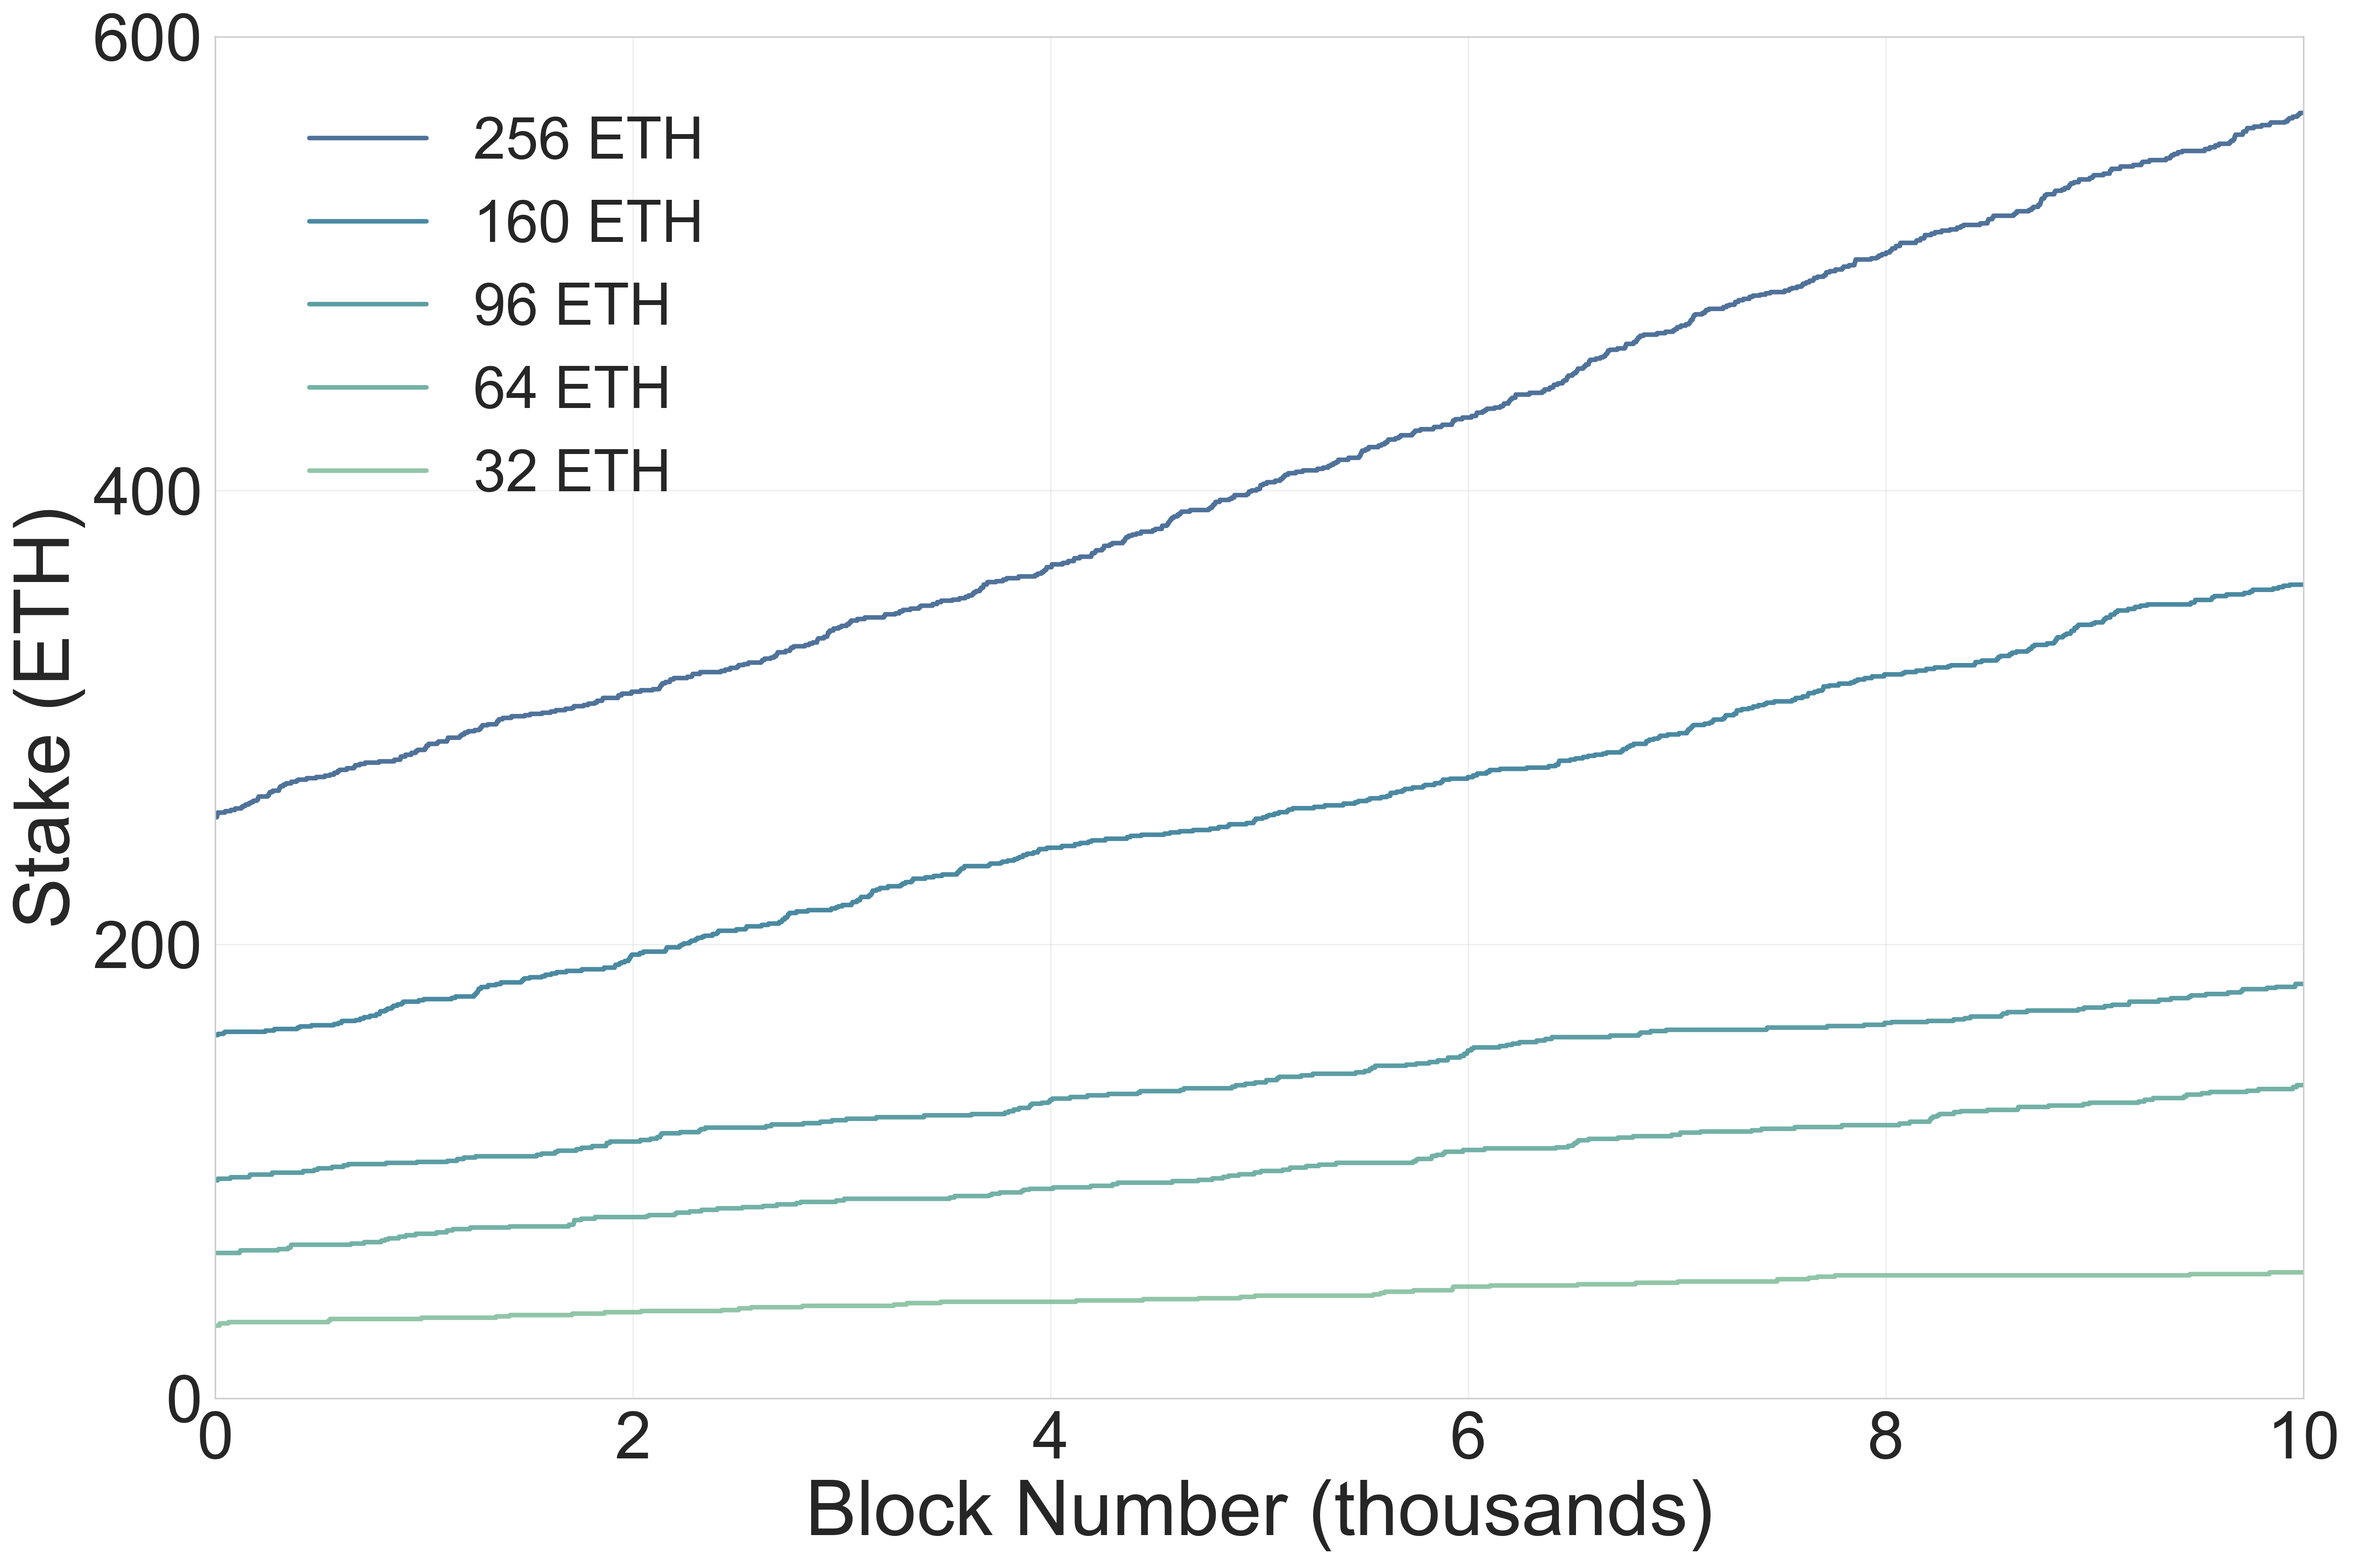
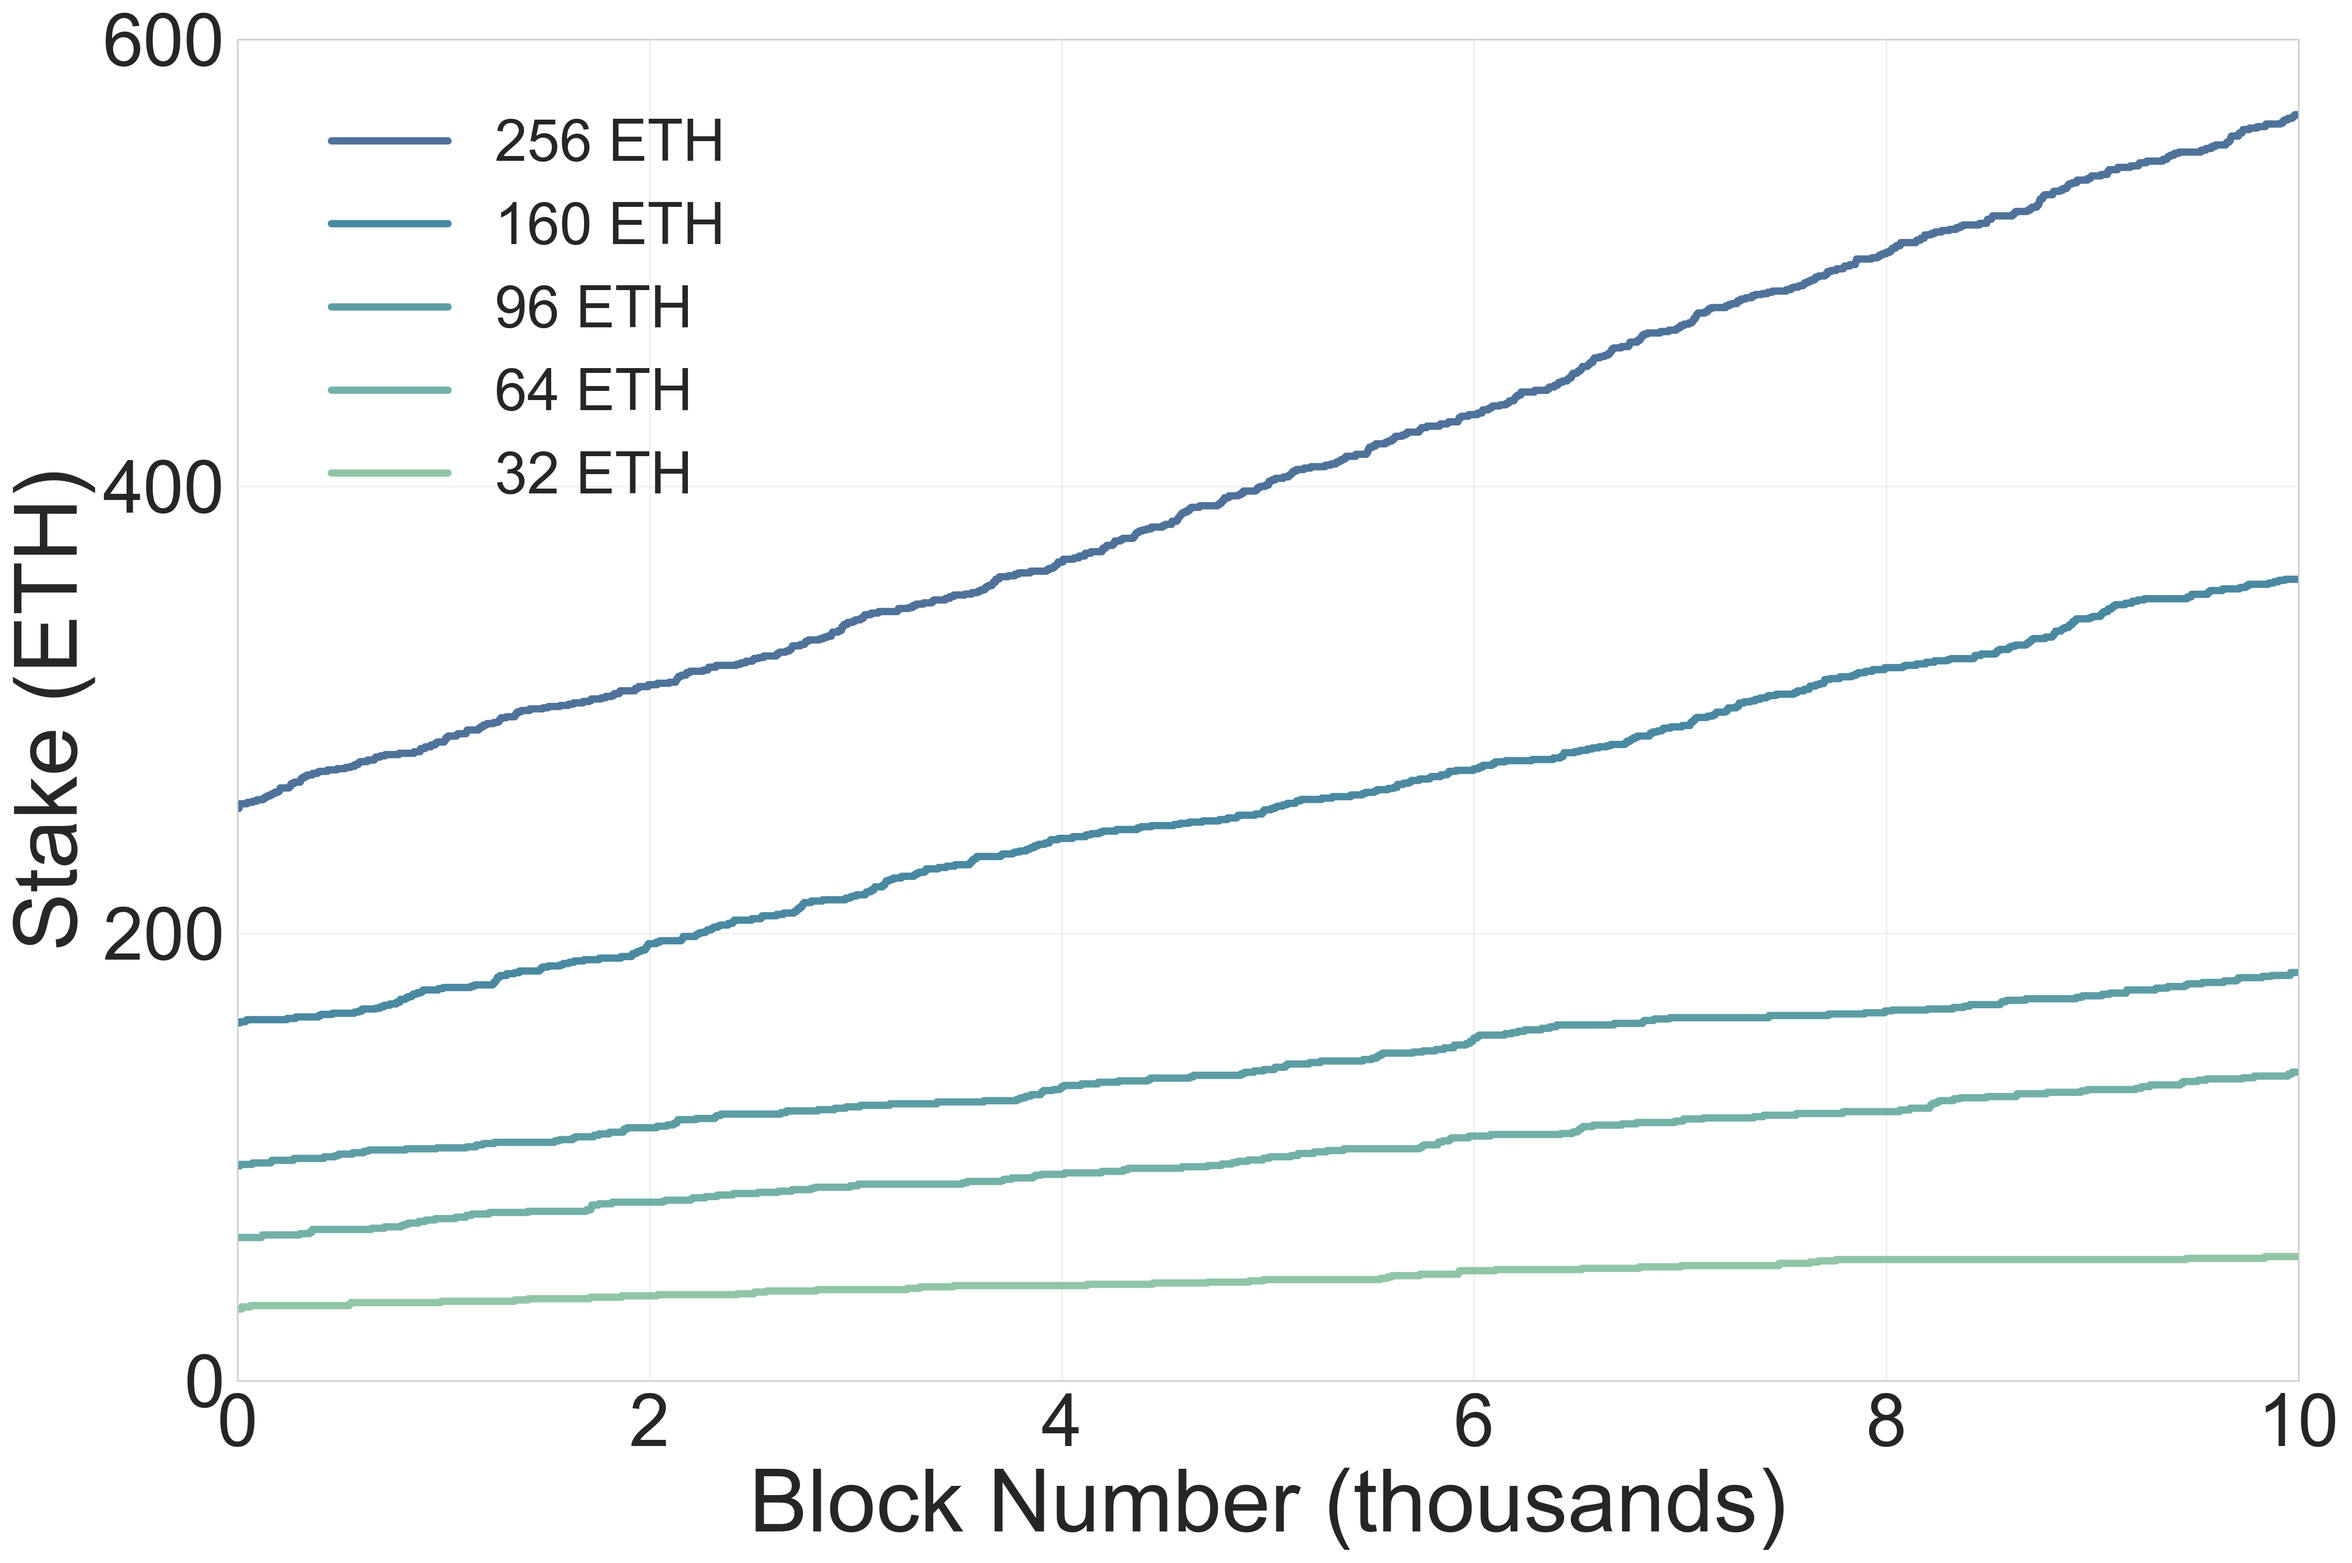
update restaking font

diff --git a/plots/ss/plot_restaking.py b/plots/ss/plot_restaking.py
@@ -101,7 +101,7 @@ def plot_pos_validators():
                     x='block_num', 
                     y=validator_data['validator_capital'] / 1e9,
                     color=color,
-                    linewidth=2.5,
+                    linewidth=4.0,
                     alpha=0.8,
                     label=label)
     
@@ -125,18 +125,18 @@ def plot_pos_validators():
                     x='block_num', 
                     y=validator_data['validator_capital'] / 1e9,
                     color=color,
-                    linewidth=2.5,
+                    linewidth=4.0,
                     alpha=0.8,
                     label=label)
     
     # Customize the plot with much larger fonts
-    plt.xlabel('Block Number (thousands)', fontsize=42)
-    plt.ylabel('Stake (ETH)', fontsize=42)
+    plt.xlabel('Block Number (thousands)', fontsize=48)
+    plt.ylabel('Stake (ETH)', fontsize=48)
     
     # Set x-axis ticks in thousands
     x_ticks = [0, 2000, 4000, 6000, 8000, 10000]
     x_labels = ['0', '2', '4', '6', '8', '10']
-    plt.xticks(x_ticks, x_labels, fontsize=36)
+    plt.xticks(x_ticks, x_labels, fontsize=40)
     
     # Get the actual data range to set appropriate y-axis limits
     # Find the maximum value across all plotted data
@@ -150,9 +150,9 @@ def plot_pos_validators():
     # Set y-axis to stop at 600 ETH for PoS
     y_max = 600
     
-    # Set explicit y-axis ticks with consistent formatting (every 100 ETH)
-    y_ticks = list(range(0, y_max + 1, 100))
-    plt.yticks(y_ticks, fontsize=36)
+    # Set explicit y-axis ticks with consistent formatting (every 200 ETH)
+    y_ticks = list(range(0, y_max + 1, 200))
+    plt.yticks(y_ticks, fontsize=40)
     
     # Set plot to start at (0,0) and end at 10000 blocks
     plt.xlim(left=0, right=10000)
@@ -325,7 +325,7 @@ def plot_pbs_builders():
                         x='block_num', 
                         y=continuous_data['current_capital'] / 1e9,  # Use current_capital for total value
                         color=color,
-                        linewidth=2.5,
+                        linewidth=4.0,
                         alpha=0.8,
                         label=label)
     
@@ -352,25 +352,25 @@ def plot_pbs_builders():
                         x='block_num', 
                         y=continuous_data['current_capital'] / 1e9,  # Use current_capital for total value
                         color=color,
-                        linewidth=2.5,
+                        linewidth=4.0,
                         alpha=0.8,
                         label=label)
     
     # Customize the plot with much larger fonts
-    plt.xlabel('Block Number (thousands)', fontsize=42)
-    plt.ylabel('Stake (ETH)', fontsize=42)
+    plt.xlabel('Block Number (thousands)', fontsize=48)
+    plt.ylabel('Stake (ETH)', fontsize=48)
     
     # Set x-axis ticks in thousands
     x_ticks = [0, 2000, 4000, 6000, 8000, 10000]
     x_labels = ['0', '2', '4', '6', '8', '10']
-    plt.xticks(x_ticks, x_labels, fontsize=36)
+    plt.xticks(x_ticks, x_labels, fontsize=40)
     
     # Set y-axis to stop at 800 ETH for PBS builders with 200 ETH intervals
     y_max = 800
     
     # Set explicit y-axis ticks with consistent formatting (every 200 ETH)
     y_ticks = list(range(0, y_max + 1, 200))
-    plt.yticks(y_ticks, fontsize=36)
+    plt.yticks(y_ticks, fontsize=40)
     
     # Set plot to start at (0,0) and end at 10000 blocks
     plt.xlim(left=0, right=10000)
@@ -507,25 +507,25 @@ def plot_pbs_proposers():
                         x='block_num', 
                         y=continuous_data['current_capital'] / 1e9,  # Use current_capital for total value
                         color=color,
-                        linewidth=2.5,
+                        linewidth=4.0,
                         alpha=0.8,
                         label=label)
     
     # Customize the plot with much larger fonts
-    plt.xlabel('Block Number (thousands)', fontsize=42)
-    plt.ylabel('Stake (ETH)', fontsize=42)
+    plt.xlabel('Block Number (thousands)', fontsize=48)
+    plt.ylabel('Stake (ETH)', fontsize=48)
     
     # Set x-axis ticks in thousands
     x_ticks = [0, 2000, 4000, 6000, 8000, 10000]
     x_labels = ['0', '2', '4', '6', '8', '10']
-    plt.xticks(x_ticks, x_labels, fontsize=36)
+    plt.xticks(x_ticks, x_labels, fontsize=40)
     
     # Set y-axis to stop at 600 ETH for PBS proposers with 200 ETH intervals
     y_max = 600
     
     # Set explicit y-axis ticks with consistent formatting (every 200 ETH)
     y_ticks = list(range(0, y_max + 1, 200))
-    plt.yticks(y_ticks, fontsize=36)
+    plt.yticks(y_ticks, fontsize=40)
     
     # Set plot to start at (0,0) and end at 10000 blocks
     plt.xlim(left=0, right=10000)
